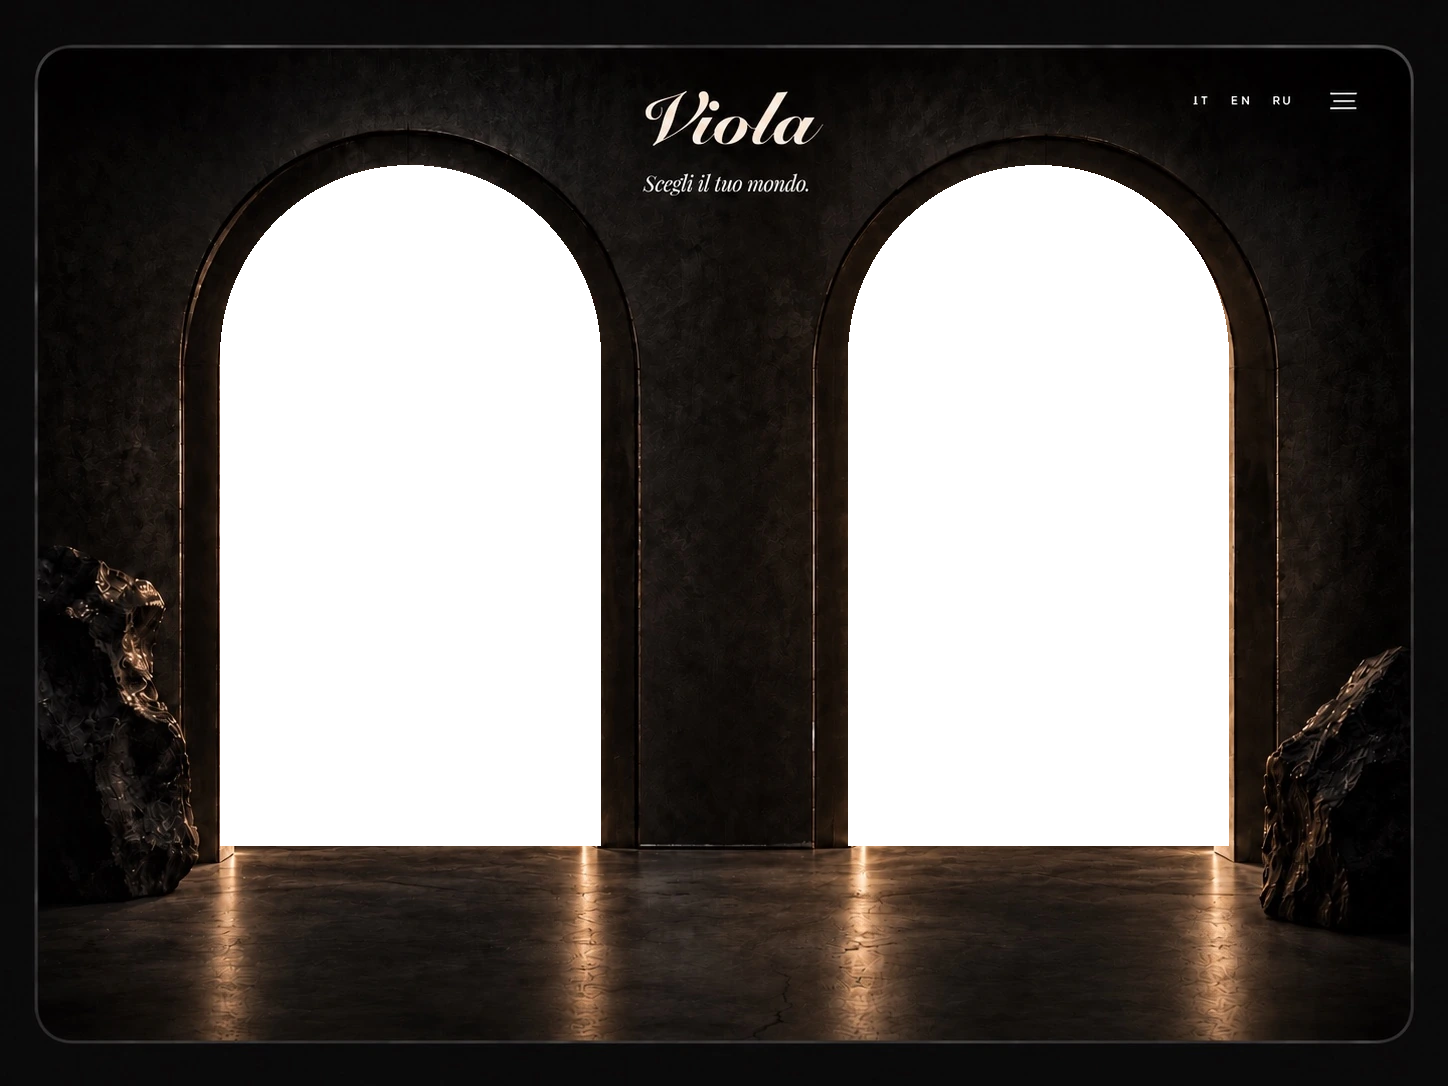
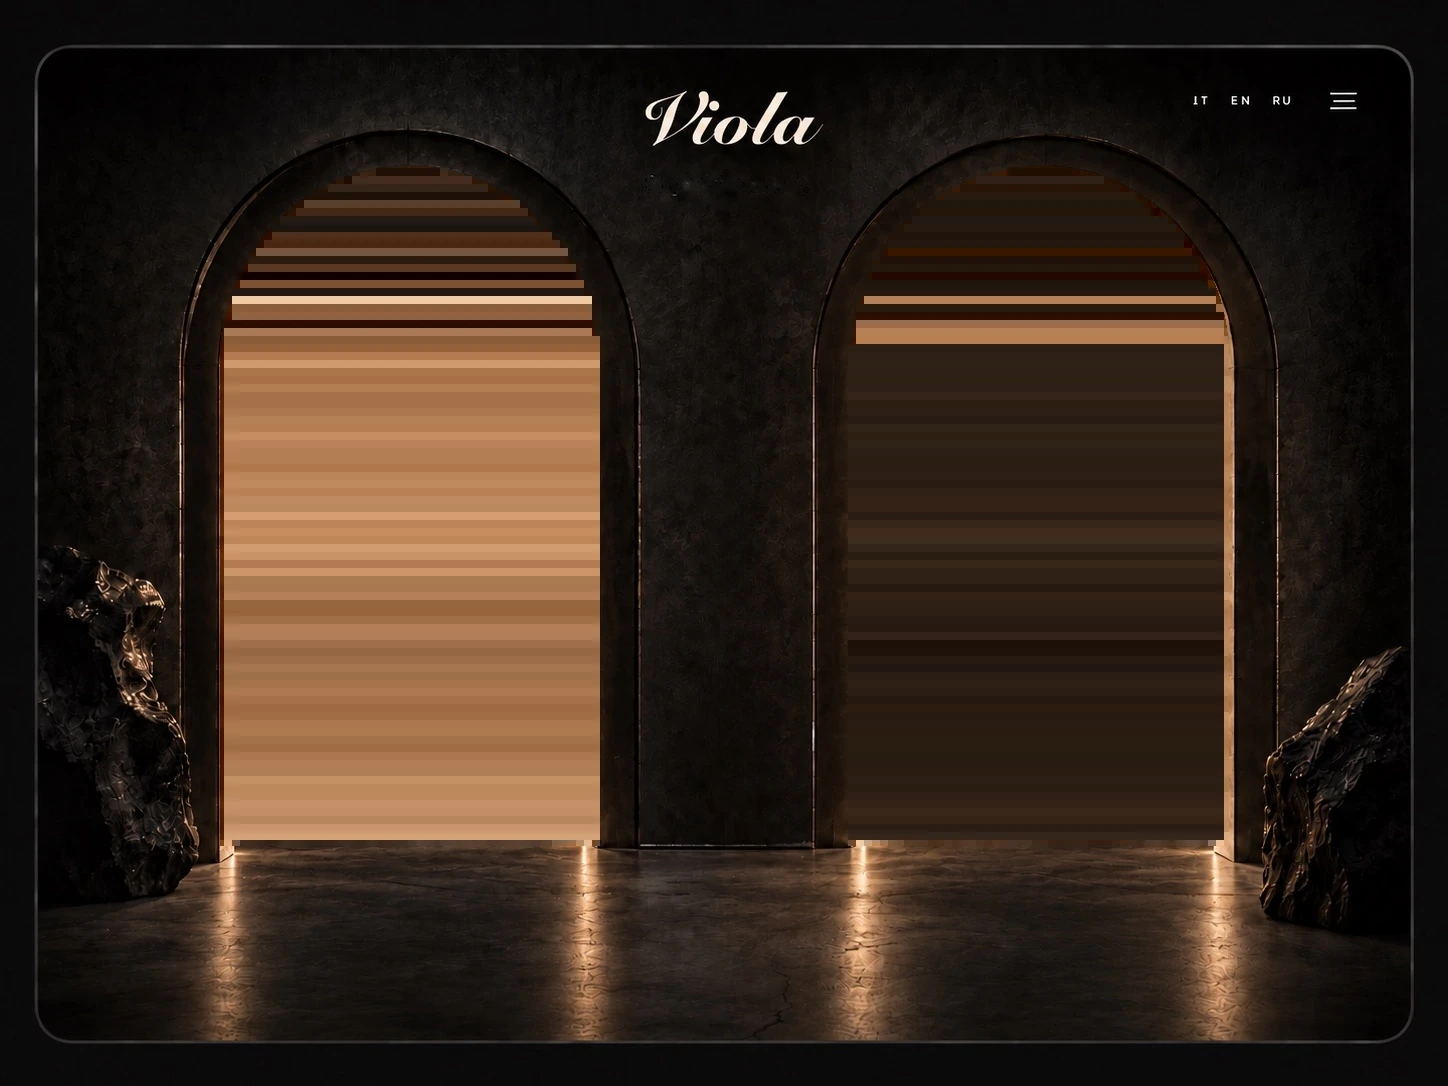
Add files via upload

diff --git a/index.html b/index.html
@@ -83,6 +83,22 @@ body.opening.art-open .glow.art{opacity:1}
 }
 .lang-switch button.active::after{opacity:.85;transform:scaleX(1)}
 
+
+.tagline{
+  position:absolute;
+  left:50%;
+  top:15.7%;
+  transform:translateX(-50%);
+  z-index:7;
+  color:#f2e8da;
+  font:italic clamp(12px,1.25vw,21px)/1.2 Georgia,"Times New Roman",serif;
+  white-space:nowrap;
+  text-align:center;
+  pointer-events:none;
+  text-shadow:0 1px 8px rgba(0,0,0,.35);
+  transition:opacity .25s ease;
+}
+
 .hint{
   position:absolute;left:50%;bottom:3.5%;transform:translateX(-50%);
   z-index:7;color:rgba(255,255,255,.62);font:9px/1.2 Arial,sans-serif;
@@ -115,6 +131,8 @@ body.opening .hint{opacity:0}
     <img class="door" src="art-door.webp" alt="Art">
   </a>
 
+  <div class="tagline" id="tagline">Scegli il tuo mondo.</div>
+
   <div class="lang-switch" aria-label="Language">
     <button data-lang="it" aria-label="Italiano">IT</button>
     <button data-lang="en" aria-label="English">EN</button>
@@ -126,9 +144,9 @@ body.opening .hint{opacity:0}
 
 <script>
 const translations={
-  it:{hint:"TOCCA UNA PORTA"},
-  en:{hint:"TAP A DOOR"},
-  ru:{hint:"НАЖМИ НА ДВЕРЬ"}
+  it:{hint:"TOCCA UNA PORTA",tagline:"Scegli il tuo mondo."},
+  en:{hint:"TAP A DOOR",tagline:"Choose your world."},
+  ru:{hint:"НАЖМИ НА ДВЕРЬ",tagline:"Выбери свой мир."}
 };
 
 function setLang(lang){
@@ -136,6 +154,7 @@ function setLang(lang){
   localStorage.setItem("violaLang",lang);
   document.documentElement.lang=lang;
   document.getElementById("hint").textContent=translations[lang].hint;
+  document.getElementById("tagline").textContent=translations[lang].tagline;
   document.querySelectorAll(".lang-switch button").forEach(b=>{
     b.classList.toggle("active",b.dataset.lang===lang);
   });
